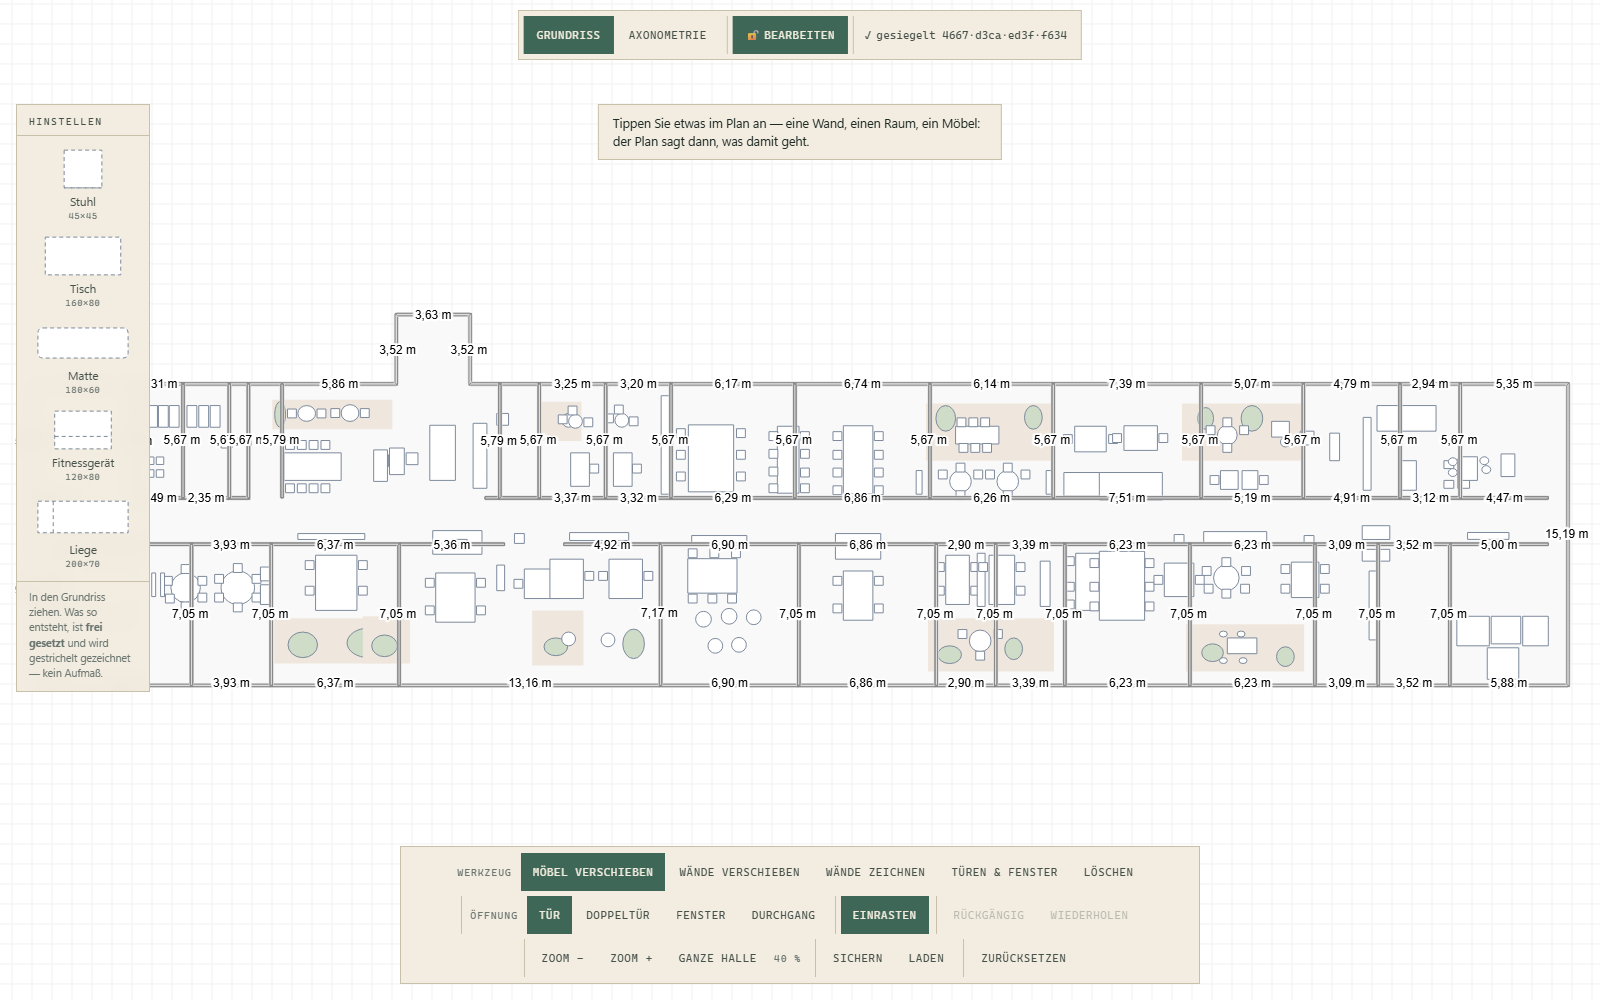
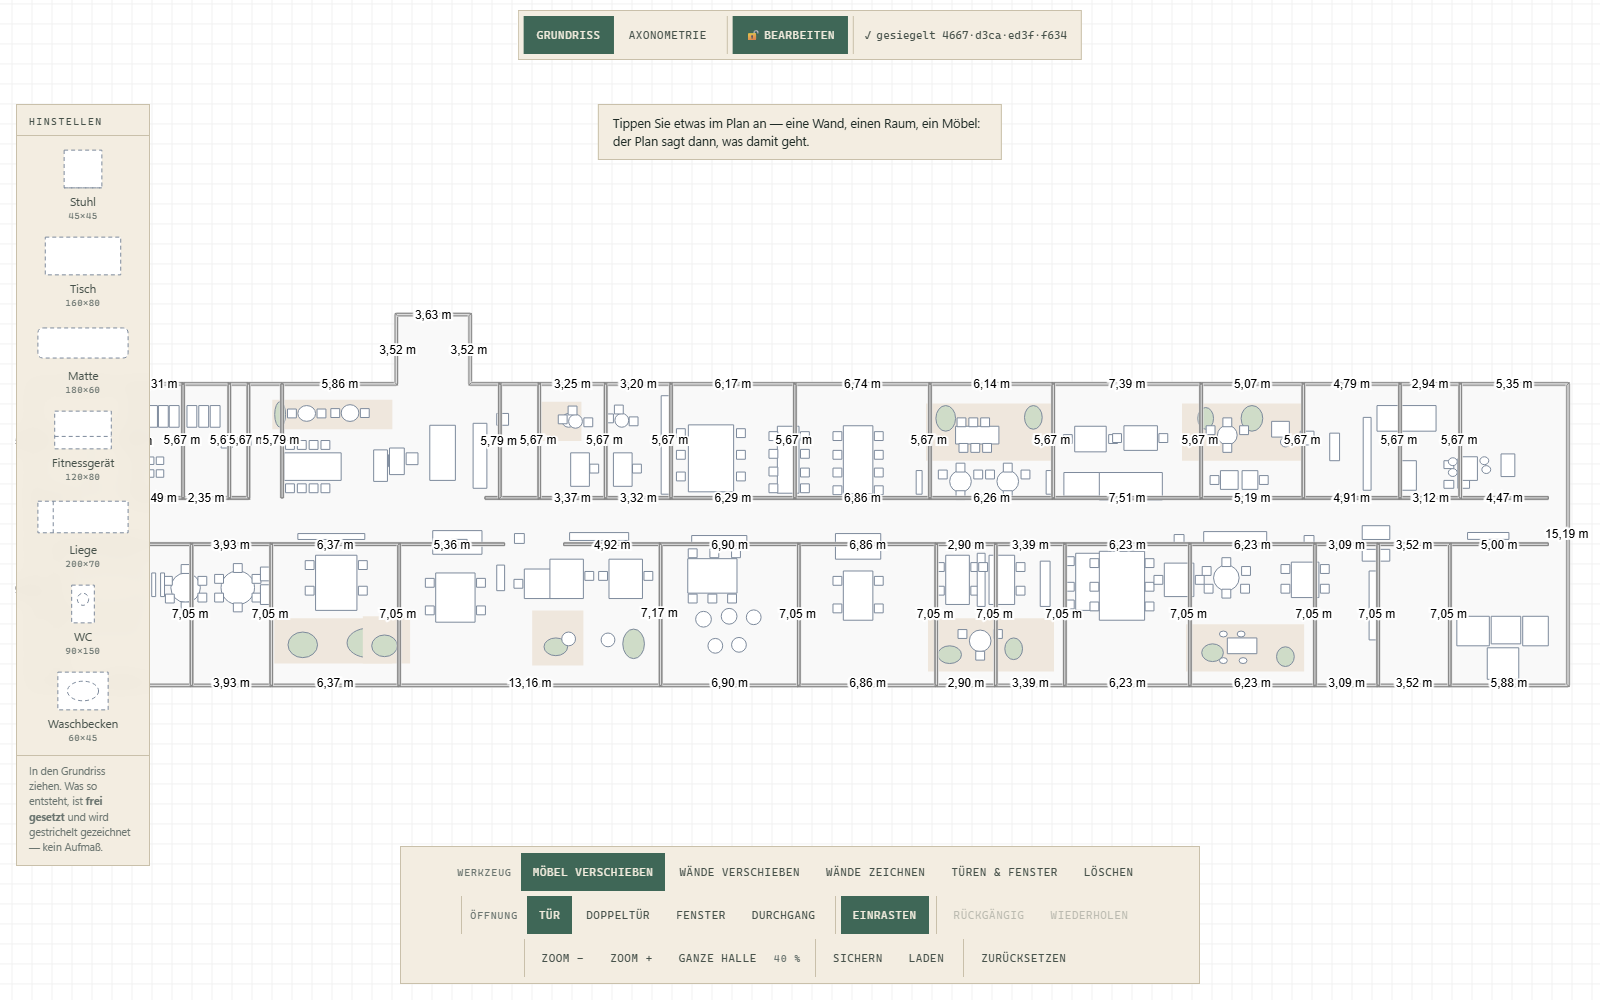
fix(w17): die Palette waechst nicht mehr in die Werkzeugleiste
REGRESSION AUS DEM EIGENEN COMMIT, vom Sammellauf gefunden.

Mit `wc` und `waschbecken` hat die Palette zwei Eintraege mehr. Am
390x800-Bildschirm reichte ihre bisherige Hoehenbegrenzung (100vh-300px)
nicht mehr: sie endete bei y=592, die Werkzeugleiste beginnt bei y=572 —
20 px Ueberlappung, gemessen von pruefe-finger H1c.

Die Begrenzung steht jetzt bei 100vh-344px (Palette endet bei y=552, 20 px
Luft). Die Zahl ist gemessen und nicht gerundet; im Kommentar steht, woran
sie haengt: Leistenhoehe 218 px ab y=572, Palettenstart y=96. Waechst die
Leiste, muss sie mit — H1c ist der Waechter, der es meldet.

Kein Eintrag geht verloren: .palette-leib scrollt intern.

SAMMELLAUF: 26 Gates, jetzt alle gruen.

Claude-Session: https://claude.ai/code/session_014rwTdaUGRsMZPLwxqENb6q

Changed region(s): [[0.0, 0.589, 0.0938, 0.868]]

diff --git a/Halle400-Modell.html b/Halle400-Modell.html
@@ -483,7 +483,15 @@
 
        Die Knopfhoehe bleibt ueber 44 px (Vorschau 88 x 34 plus Name) — unter
        einer Fingerkuppe waere eine kleinere Flaeche ein Glueckstreffer. */
-    .palette{left:8px;top:96px;width:102px;max-height:calc(100vh - 300px)}
+    /* Die 344 px sind KEINE runde Zahl, sondern gemessen: die Werkzeugleiste
+       ist am 390x800-Bildschirm 218 px hoch und beginnt bei y=572; die Palette
+       startet bei y=96. Mehr als 100vh-344 und sie waechst in die Leiste
+       hinein — genau das ist beim Ergaenzen von WC und Waschbecken passiert
+       (pruefe-finger H1c, Ueberlappung 20 px). Waechst die Leiste, muss diese
+       Zahl mit; H1c ist der Waechter, der es meldet, statt es durchgehen zu
+       lassen. Die Palette scrollt intern (.palette-leib overflow-y:auto), es
+       geht also kein Eintrag verloren. */
+    .palette{left:8px;top:96px;width:102px;max-height:calc(100vh - 344px)}
     .palette-kopf{padding:8px 8px 6px;font-size:9px;letter-spacing:.11em}
     .palette-leib{padding:3px 3px 4px}
     .pstueck{padding:4px 2px;font-size:10.5px}
@@ -956,7 +964,7 @@ const HOEHEN = {"oberkante":{"tisch":74,"rundtisch":74,"stuhl":45,"schrank":200,
 
 /* Fingerabdruck des eingebauten Plans und Zeitpunkt dieses Baus. */
 const PLAN_ABDRUCK = "c8051b95fb22";
-const BAU_STEMPEL = "2026-08-11 07:55";
+const BAU_STEMPEL = "2026-08-11 10:37";
 
 /* ══════ three (Rechen-Teil, ohne Bildschirm-Ausgabe) ══════ */
 /* eslint-disable */
